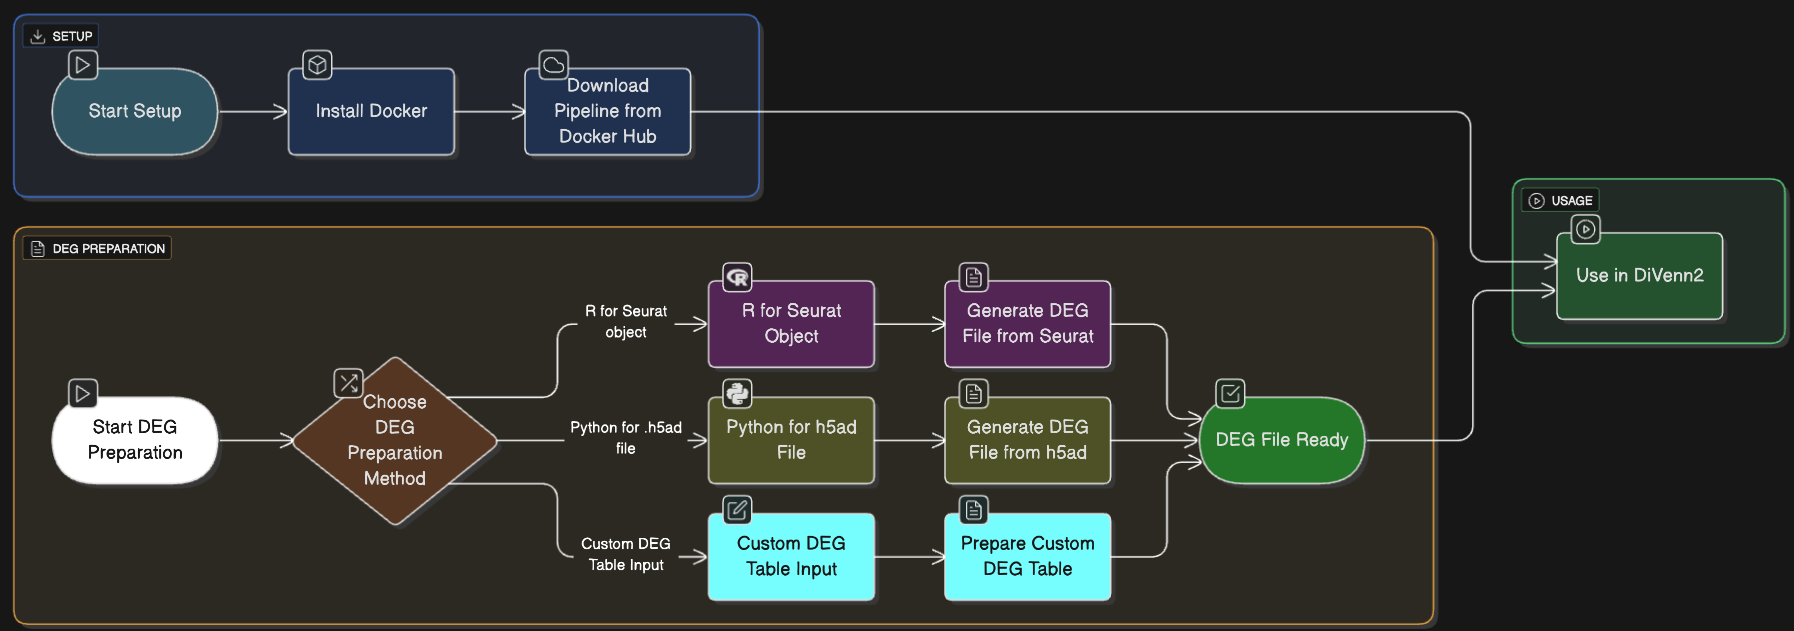
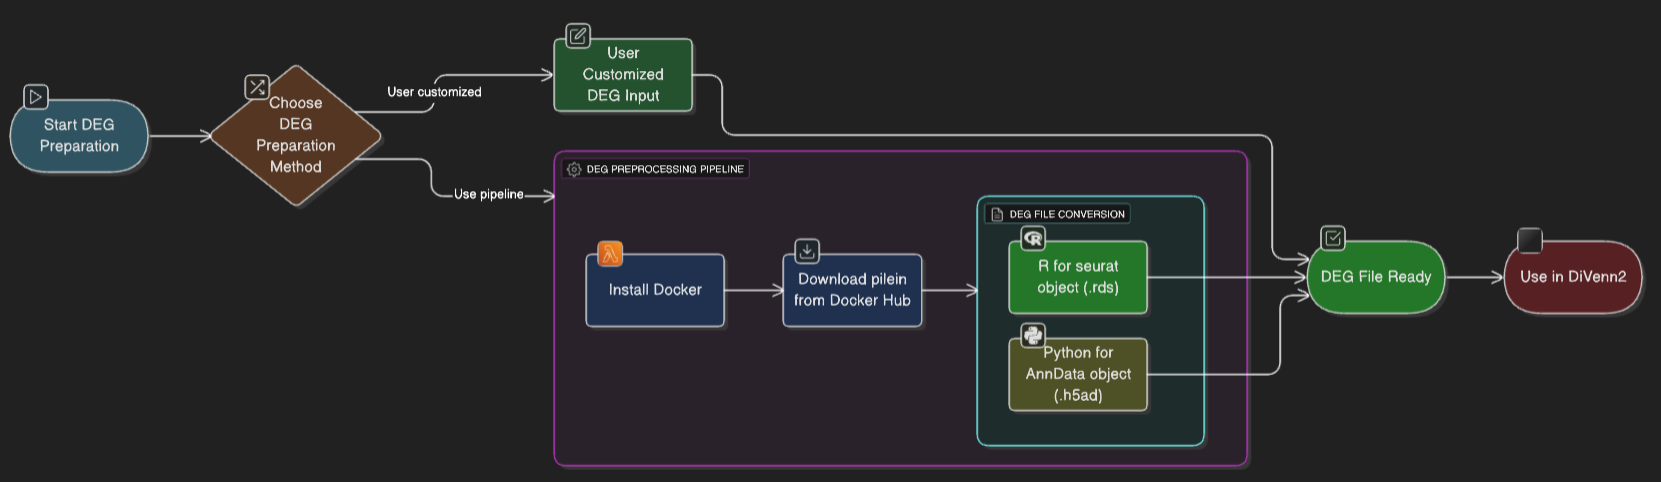
Update the Divenn flow chart

diff --git a/scRNAseq_preprocessing/docker/README.md b/scRNAseq_preprocessing/docker/README.md
@@ -4,7 +4,7 @@
 
 ## 🔄 Custom DEG Table Input (User-Supplied CSV)
 
-In addition to processing .h5ad and .rds files using the built-in Python and R scripts, the DiVenn2 DEG preprocessing pipeline also supports custom DEG table inputs directly from users. This allows users who have already performed differential expression analysis in their own environments (outside of the container) to supply pre-formatted CSV files, bypassing the need to run the built-in Preprocessing_h5ad.py or Preprocessing_Seuratobj.r scripts. These customized DEG tables must follow the standard DiVenn2 format as described in the '📤  **Output Format**' section: each row should contain Condition_1, Condition_2, CellType, Gene, and Reg_direct, where Reg_direct is 1 for upregulated and 2 for downregulated genes in Condition_1. By supporting this flexible input mode, users can seamlessly integrate their existing pipelines and tools with DiVenn2’s powerful visualization capabilities.
+the DiVenn2 DEG preprocessing pipeline supports custom DEG table inputs directly from users. This allows users who have already performed differential expression analysis in their own environments (outside of the container) to supply pre-formatted CSV files, bypassing the need to run the built-in DEG preprocessing steps. These customized DEG tables must follow the standard DiVenn2 format as described in the '📤  **Output Format**' section: each row should contain Condition_1, Condition_2, CellType, Gene, and Reg_direct, where Reg_direct is 1 for upregulated and 2 for downregulated genes in Condition_1. By supporting this flexible input mode, users can seamlessly integrate their existing pipelines and tools with DiVenn2’s powerful visualization capabilities.
 
 The following sections contain scripts and a Docker/Singularity-based environment for preprocessing single-cell datasets in **h5ad** and **rds (Seurat obj)** formats to generate differentially expressed gene (DEG) files as input for **DiVenn2**. The containerized setup ensures reproducibility and consistency across computing environments.
 
